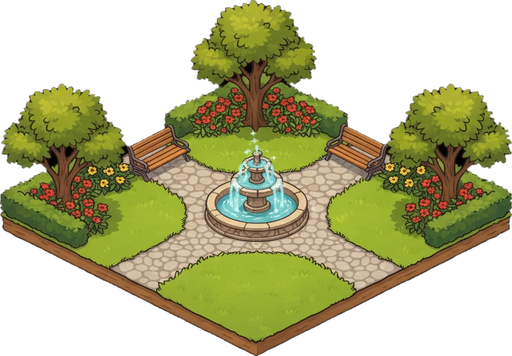
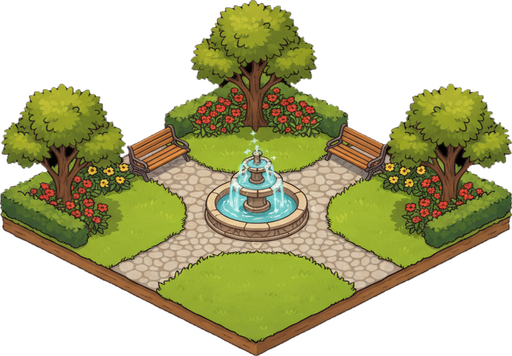
Bina görselleri Higgsfield'ın orijinal PNG'lerinden yeniden işlendi
Claude-Session: https://claude.ai/code/session_01FAnxkyGZv9r4tVZSYowf9C

Changed region(s): [[0.2188, 0.4017, 0.25, 0.4635]]

diff --git a/tools/gorsel_hazirla.py b/tools/gorsel_hazirla.py
@@ -1,7 +1,7 @@
 """Bina görselini oyuna hazırlar.
 
 Kullanım:
-    python3 tools/gorsel_hazirla.py img/kaynak/ev.webp ev
+    python3 tools/gorsel_hazirla.py img/kaynak/ev.png ev
 
 Yaptıkları:
 1. Düz renkli (siyah ya da beyaz) arka planı şeffaf yapar. Kenardan başlayıp

diff --git a/DEVAM_NOTLARI.md b/DEVAM_NOTLARI.md
@@ -72,3 +72,9 @@ Her çalışma oturumunda buraya tarihli not eklenir. Claude sohbetler arasında
 - Kullanıcı kafe ve parkı üretti (kaynaklar `img/kaynak/`). Hazırlanıp oyuna kondu.
 - `tools/gorsel_hazirla.py` artık açı oranını zeminin alt kenar eğiminden ölçüyor (ağaç ve çitten etkilenmiyor). Ölçülen oranlar: ev 1,83, park 1,73, kafe 1,85. Üç görsel yeniden işlendi.
 - Park, ev ve kafeden biraz daha çizgi filmsi (kalın siyah dış çizgi). Küçük boyutta göze batmıyor; diğer binalarda ev ve kafe örnek gösterilmeli.
+
+## 2026-11-23 — Higgsfield görsellerine doğrudan erişim
+
+- Ortamın izin listesine `d8j0ntlcm91z4.cloudfront.net` eklendi (kullanıcı onayıyla). Claude, kullanıcının Higgsfield'da ürettiği görselleri listeleyip (show_generations) orijinal PNG'yi indirebiliyor. Kullanıcının görsel yüklemesine gerek yok.
+- Ev, kafe ve park kaynakları sıkıştırılmış webp yerine orijinal PNG ile değiştirildi ve yeniden işlendi.
+- Not: kullanıcının üretimleri Nano Banana modeliyle; kafe ve parkta referans görsel eklenmemişti.

diff --git a/img/binalar/OKU.md b/img/binalar/OKU.md
@@ -35,7 +35,7 @@ Görsel karede biraz büyük ya da küçük durursa `js/data.js` içinde o binay
 Üretilen görseli bu klasöre elle koymak yerine şu komutla hazırla:
 
 ```bash
-python3 tools/gorsel_hazirla.py img/kaynak/kafe.webp kafe
+python3 tools/gorsel_hazirla.py img/kaynak/kafe.png kafe
 ```
 
 Araç siyah ya da beyaz düz arka planı siler, boş kenarları kırpar, açıyı oyunun karelerine uydurur ve `img/binalar/kafe.png` olarak kaydeder. Kaynak görsel `img/kaynak/` klasöründe saklanır; sonradan yeniden işlemek gerekirse oradan alınır.
